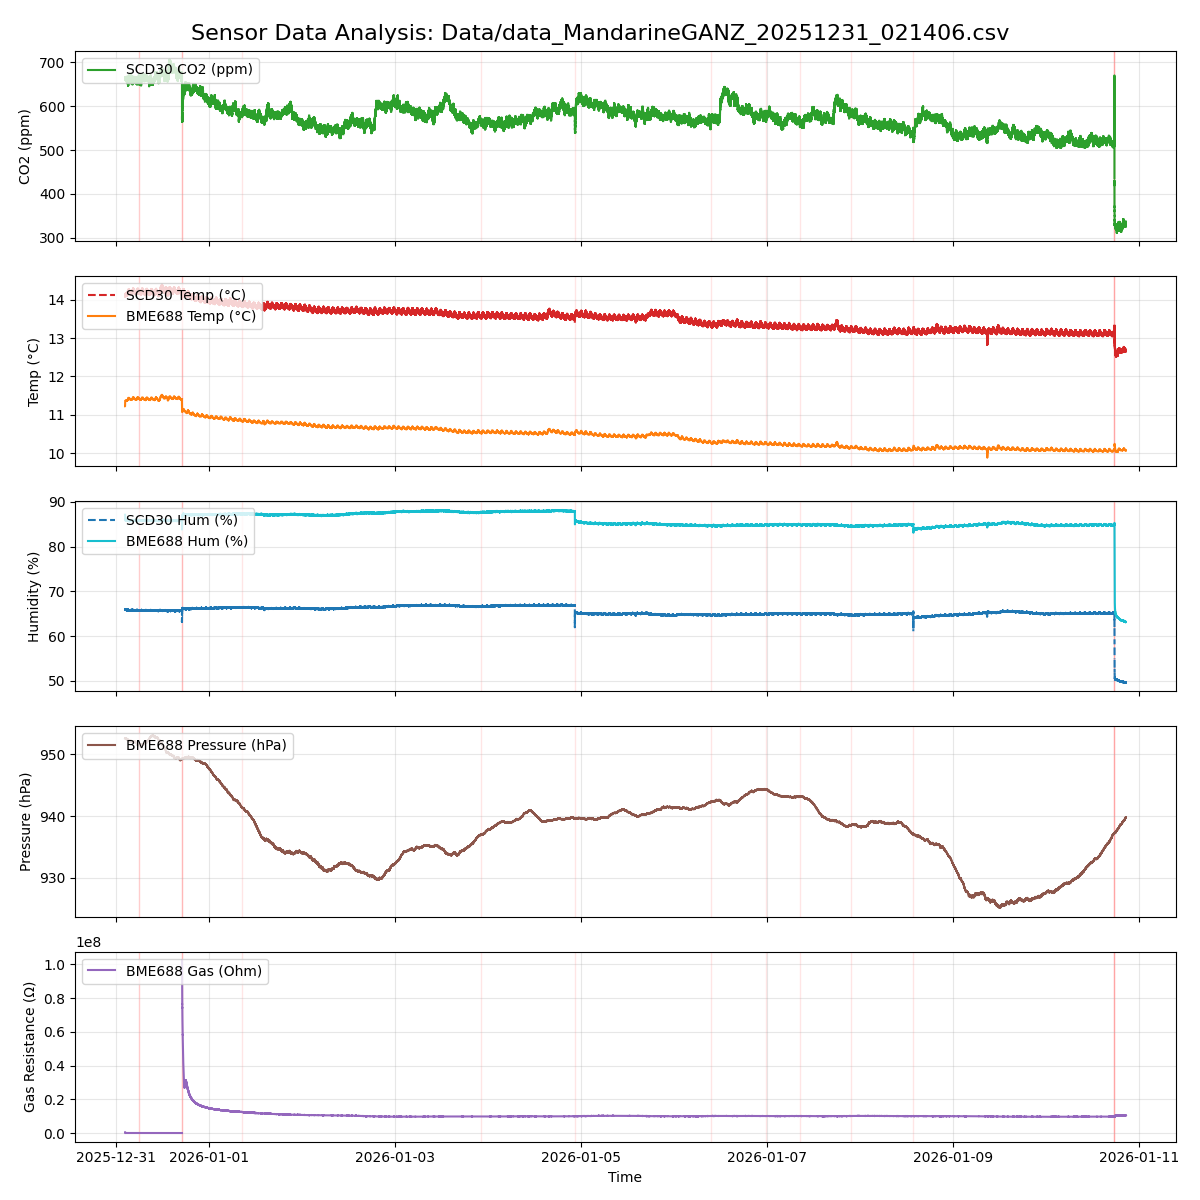
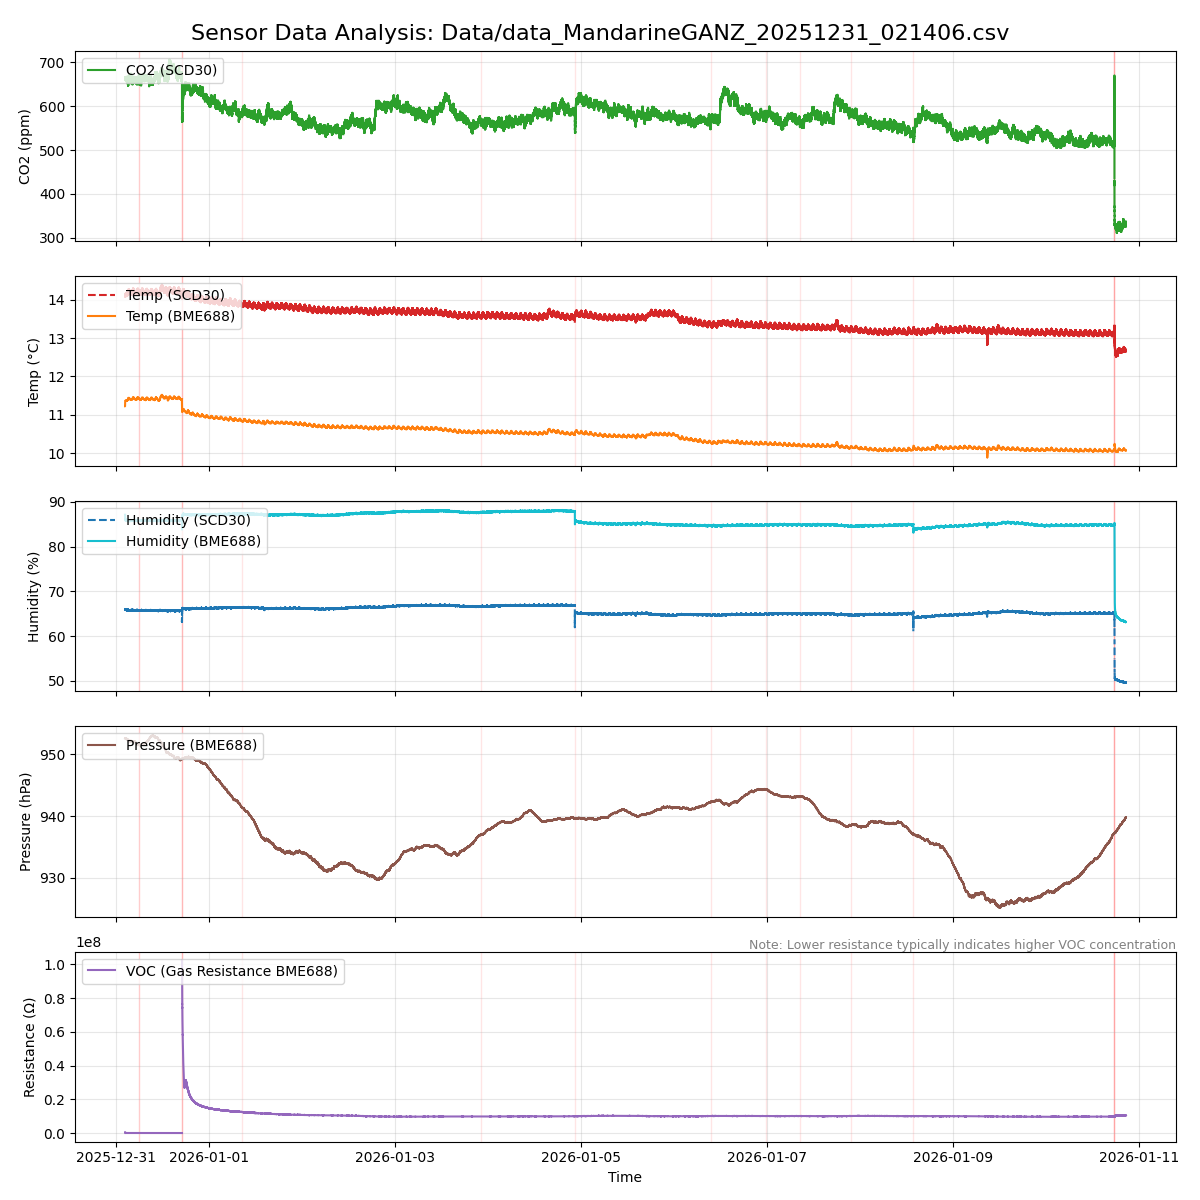
feat: add --no-show and replot all graphs

diff --git a/tools/src/tools/plot_data.py b/tools/src/tools/plot_data.py
@@ -26,6 +26,7 @@ logger = logging.getLogger(__name__)
 def parse_arguments():
     parser = argparse.ArgumentParser(description="Plot E-Nose Sensor Data from CSV")
     parser.add_argument("csv_file", type=str, help="Path to the CSV file to plot")
+    parser.add_argument("--no-show", action="store_true", help="Do not display the plot window")
     return parser.parse_args()
 
 
@@ -140,7 +141,7 @@ def plot_data(data, filename):
             ax.axvspan(timestamps[start_idx], timestamps[-1], color="red", alpha=0.1)
 
     # 1. CO2
-    axs[0].plot(timestamps, scd_co2, label="SCD30 CO2 (ppm)", color="tab:green")
+    axs[0].plot(timestamps, scd_co2, label="CO2 (SCD30)", color="tab:green")
     axs[0].set_ylabel("CO2 (ppm)")
     axs[0].legend(loc="upper left")
     axs[0].grid(True, alpha=0.3)
@@ -148,9 +149,9 @@ def plot_data(data, filename):
 
     # 2. Temperature
     axs[1].plot(
-        timestamps, scd_temp, label="SCD30 Temp (°C)", color="tab:red", linestyle="--"
+        timestamps, scd_temp, label="Temp (SCD30)", color="tab:red", linestyle="--"
     )
-    axs[1].plot(timestamps, bme_temp, label="BME688 Temp (°C)", color="tab:orange")
+    axs[1].plot(timestamps, bme_temp, label="Temp (BME688)", color="tab:orange")
     axs[1].set_ylabel("Temp (°C)")
     axs[1].legend(loc="upper left")
     axs[1].grid(True, alpha=0.3)
@@ -158,27 +159,28 @@ def plot_data(data, filename):
 
     # 3. Humidity
     axs[2].plot(
-        timestamps, scd_hum, label="SCD30 Hum (%)", color="tab:blue", linestyle="--"
+        timestamps, scd_hum, label="Humidity (SCD30)", color="tab:blue", linestyle="--"
     )
-    axs[2].plot(timestamps, bme_hum, label="BME688 Hum (%)", color="tab:cyan")
+    axs[2].plot(timestamps, bme_hum, label="Humidity (BME688)", color="tab:cyan")
     axs[2].set_ylabel("Humidity (%)")
     axs[2].legend(loc="upper left")
     axs[2].grid(True, alpha=0.3)
     highlight_door_regions(axs[2], timestamps, is_door_open)
 
     # 4. Pressure
-    axs[3].plot(timestamps, bme_pres, label="BME688 Pressure (hPa)", color="tab:brown")
+    axs[3].plot(timestamps, bme_pres, label="Pressure (BME688)", color="tab:brown")
     axs[3].set_ylabel("Pressure (hPa)")
     axs[3].legend(loc="upper left")
     axs[3].grid(True, alpha=0.3)
     highlight_door_regions(axs[3], timestamps, is_door_open)
 
-    # 5. Gas Resistance
-    axs[4].plot(timestamps, bme_gas, label="BME688 Gas (Ohm)", color="tab:purple")
-    axs[4].set_ylabel("Gas Resistance (Ω)")
+    # 5. Gas Resistance (VOC)
+    axs[4].plot(timestamps, bme_gas, label="VOC (Gas Resistance BME688)", color="tab:purple")
+    axs[4].set_ylabel("Resistance (Ω)")
     axs[4].set_xlabel("Time")
     axs[4].legend(loc="upper left")
     axs[4].grid(True, alpha=0.3)
+    axs[4].set_title("Note: Lower resistance typically indicates higher VOC concentration", fontsize=9, loc='right', color='gray', pad=-15)
     highlight_door_regions(axs[4], timestamps, is_door_open)
 
     plt.tight_layout()
@@ -188,18 +190,19 @@ def plot_data(data, filename):
     plt.savefig(output_file)
     logger.info("Plot saved to: %s", output_file)
 
-    logger.info("Attempting to display plot...")
-    try:
-        plt.show()
-    except Exception as e:
-        logger.warning("Could not display plot window: %s", e)
-        logger.info("You can view the generated PNG file instead.")
-
 
 def main():
     args = parse_arguments()
     data = read_data(args.csv_file)
     plot_data(data, args.csv_file)
+    
+    if not args.no_show:
+        logger.info("Attempting to display plot...")
+        try:
+            plt.show()
+        except Exception as e:
+            logger.warning("Could not display plot window: %s", e)
+            logger.info("You can view the generated PNG file instead.")
 
 
 if __name__ == "__main__":
